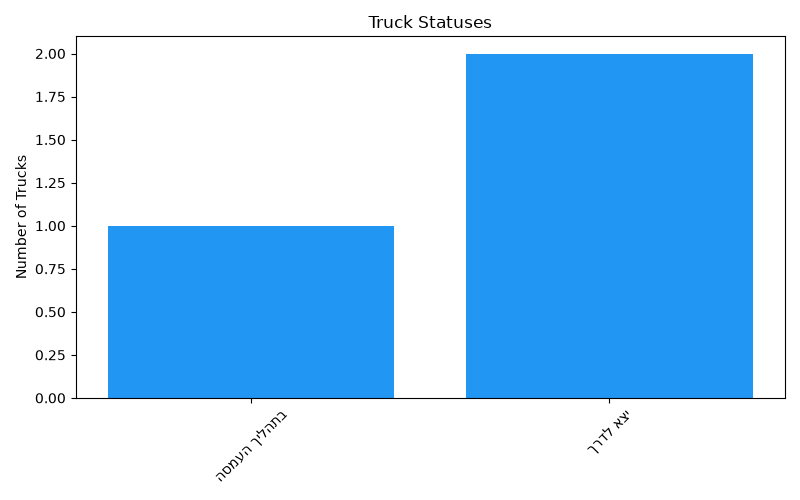
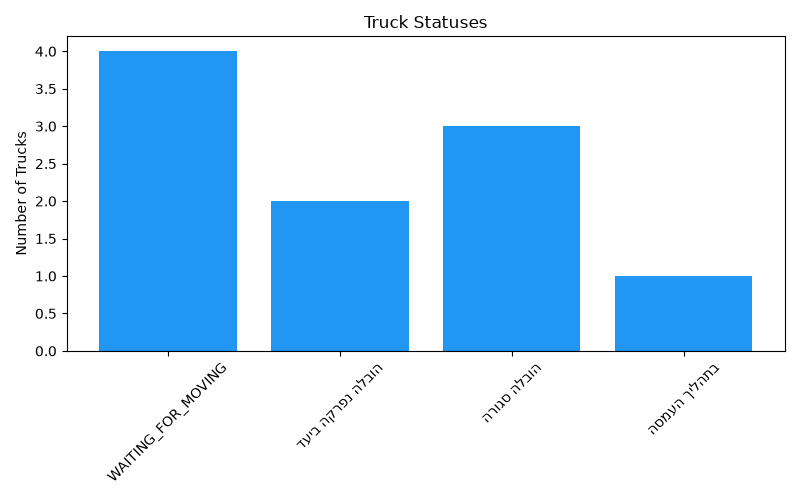
feat(agent): Make ChatRoute mobile-responsive, fix DB connection quote parsing, and update Groq fallback models

diff --git a/src/components/Chat.tsx b/src/components/Chat.tsx
@@ -14,8 +14,24 @@ export default function Chat() {
     const [isLoading, setIsLoading] = useState(false);
     const [selectedModel, setSelectedModel] = useState('logfare/auto');
     const [colabStatus, setColabStatus] = useState<'connected' | 'disconnected' | 'error'>('disconnected');
+    const [thinkingDots, setThinkingDots] = useState('');
     const messagesEndRef = useRef<HTMLDivElement>(null);
     const abortControllerRef = useRef<AbortController | null>(null);
+
+    // Animation for loading dots
+    useEffect(() => {
+        let interval: NodeJS.Timeout;
+        if (isLoading) {
+            setThinkingDots('');
+            interval = setInterval(() => {
+                setThinkingDots(prev => {
+                    if (prev === '...') return '';
+                    return prev + '.';
+                });
+            }, 500);
+        }
+        return () => clearInterval(interval);
+    }, [isLoading]);
 
     const scrollToBottom = () => {
         messagesEndRef.current?.scrollIntoView({ behavior: 'smooth' });
@@ -130,9 +146,9 @@ export default function Chat() {
                         </optgroup>
                         <optgroup label="Groq (Cloud - Fast but Rate Limited)">
                             <option value="llama-3.1-8b-instant">Llama 3.1 8B</option>
-                            <option value="llama-3.1-70b-versatile">Llama 3.1 70B</option>
+                            <option value="llama-3.3-70b-versatile">Llama 3.3 70B</option>
                             <option value="mixtral-8x7b-32768">Mixtral 8x7B</option>
-                            <option value="gemma-7b-it">Gemma 7B</option>
+                            <option value="gemma2-9b-it">Gemma 2 9B</option>
                         </optgroup>
                         <optgroup label="Local (Ollama - Free & Unlimited)">
                             <option value="local/llama3.1">Local: Llama 3.1 8B</option>
@@ -169,7 +185,9 @@ export default function Chat() {
                 {isLoading && (
                     <div className="message assistant loading">
                         <div className="message-content">
-                            <p>חושב...</p>
+                            <p style={{ direction: 'ltr', textAlign: 'right' }}>
+                                חושב{thinkingDots}
+                            </p>
                         </div>
                     </div>
                 )}

diff --git a/src/routes/ChatRoute.tsx b/src/routes/ChatRoute.tsx
@@ -1,0 +1,48 @@
+import { useNavigate } from "@tanstack/react-router";
+import Chat from "../components/Chat";
+
+export function ChatRoute() {
+  const navigate = useNavigate();
+
+  return (
+    <div style={{ 
+      height: "100dvh", 
+      maxWidth: "480px", 
+      margin: "0 auto",
+      display: "flex", 
+      flexDirection: "column", 
+      backgroundColor: "#f5f5f5",
+      boxShadow: "0 0 20px rgba(0,0,0,0.1)"
+    }}>
+      <header style={{ 
+        display: "flex", 
+        alignItems: "center", 
+        padding: "1rem", 
+        backgroundColor: "#1976d2", 
+        color: "white",
+        boxShadow: "0 2px 4px rgba(0,0,0,0.1)",
+        zIndex: 10
+      }}>
+        <button 
+          onClick={() => navigate({ to: "/management" })}
+          style={{ 
+            background: "none", 
+            border: "none", 
+            color: "white", 
+            fontSize: "1.2rem", 
+            cursor: "pointer",
+            display: "flex",
+            alignItems: "center",
+            gap: "0.5rem"
+          }}
+        >
+          <span>← חזור</span>
+        </button>
+        <h1 style={{ margin: "0 auto", fontSize: "1.2rem", fontWeight: "600", transform: "translateX(-20px)" }}>סוכן לוגיסטיקה חכם</h1>
+      </header>
+      <main style={{ flex: 1, overflow: "hidden", display: "flex" }}>
+        <Chat />
+      </main>
+    </div>
+  );
+}

diff --git a/src/routes/ManagementReportRoute.tsx b/src/routes/ManagementReportRoute.tsx
@@ -1,4 +1,5 @@
 import { useEffect, useMemo, useState } from "react";
+import { useNavigate } from "@tanstack/react-router";
 import {
   Bar,
   BarChart,
@@ -62,6 +63,7 @@ async function readError(response: Response) {
 }
 
 export function ManagementReportRoute() {
+  const navigate = useNavigate();
   const { api, currentUser, groups, rooms } = useRelocation();
   const [rows, setRows] = useState<GroupReportRow[]>([]);
   const [unitId, setUnitId] = useState("");
@@ -256,6 +258,32 @@ export function ManagementReportRoute() {
           </article>
         ))}
       </section>
+
+      {/* Floating Action Button for Chat Agent */}
+      <button
+        onClick={() => navigate({ to: '/chat' })}
+        style={{
+          position: "fixed",
+          bottom: "2rem",
+          left: "2rem",
+          width: "60px",
+          height: "60px",
+          borderRadius: "50%",
+          backgroundColor: "#1976d2",
+          color: "white",
+          border: "none",
+          boxShadow: "0 4px 10px rgba(0,0,0,0.3)",
+          fontSize: "24px",
+          cursor: "pointer",
+          display: "flex",
+          justifyContent: "center",
+          alignItems: "center",
+          zIndex: 1000
+        }}
+        aria-label="Open AI Agent"
+      >
+        💬
+      </button>
     </MobileShell>
   );
 }

diff --git a/src/router.tsx b/src/router.tsx
@@ -10,6 +10,7 @@ import { PackingRoute } from "./routes/PackingRoute";
 import { ProcessesRoute } from "./routes/ProcessesRoute";
 import { ReceivingRoute } from "./routes/ReceivingRoute";
 import { TransportRoute } from "./routes/TransportRoute";
+import { ChatRoute } from "./routes/ChatRoute";
 
 const rootRoute = createRootRoute({
   component: () => <Outlet />,
@@ -57,6 +58,12 @@ const managementRoute = createRoute({
   component: ManagementReportRoute,
 });
 
+const chatRoute = createRoute({
+  getParentRoute: () => rootRoute,
+  path: "/chat",
+  component: ChatRoute,
+});
+
 const routeTree = rootRoute.addChildren([
   dashboardRoute,
   processesRoute,
@@ -65,6 +72,7 @@ const routeTree = rootRoute.addChildren([
   receivingRoute,
   distributionRoute,
   managementRoute,
+  chatRoute,
 ]);
 
 export const router = createRouter({ routeTree });

diff --git a/src/App.tsx b/src/App.tsx
@@ -3,7 +3,6 @@ import { RelocationProvider } from "./state/relocation";
 import { router } from "./router";
 import { LoginRoute } from "./routes/LoginRoute";
 import { useRelocation } from "./state/relocation";
-import Chat from "./components/Chat";
 
 function AuthGate() {
   const { currentUser, loading } = useRelocation();
@@ -19,12 +18,6 @@ function AuthGate() {
   return (
     <>
       <RouterProvider router={router} />
-      
-      {/* Injected Chat Agent for testing after login */}
-      <section className="chat-section" style={{ margin: "2rem", borderTop: "2px solid #ccc", paddingTop: "2rem" }}>
-        <h2 style={{ textAlign: "center", marginBottom: "1rem" }}>Logistics Agent</h2>
-        <Chat />
-      </section>
     </>
   );
 }

diff --git a/src/components/Chat.css b/src/components/Chat.css
@@ -1,13 +1,10 @@
 .chat-container {
     display: flex;
     flex-direction: column;
-    height: 500px;
+    height: 100%;
     width: 100%;
-    max-width: 800px;
-    margin: 0 auto;
-    border: 1px solid #ccc;
-    border-radius: 8px;
-    background-color: #f9f9f9;
+    margin: 0;
+    background-color: #f5f5f5;
     overflow: hidden;
 }
 
@@ -76,6 +73,7 @@
     max-width: 100%;
     border-radius: 8px;
     border: 1px solid #ddd;
+    object-fit: contain;
 }
 
 .loading .message-content {

diff --git a/agent/check_db.py b/agent/check_db.py
@@ -1,0 +1,24 @@
+import os
+import psycopg2
+from dotenv import load_dotenv
+
+load_dotenv()
+
+db_url = os.environ.get("SUPABASE_DB_URL")
+if not db_url:
+    print("Error: SUPABASE_DB_URL not found")
+    exit(1)
+
+# Remove quotes if they exist
+db_url = db_url.strip('"').strip("'")
+print(f"Connecting to: {db_url.split('@')[-1]}")
+
+try:
+    conn = psycopg2.connect(db_url)
+    cursor = conn.cursor()
+    cursor.execute("SELECT 1;")
+    result = cursor.fetchone()
+    print("Success! Database connection works.")
+    conn.close()
+except Exception as e:
+    print(f"Connection failed: {e}")

diff --git a/agent/tools.py b/agent/tools.py
@@ -14,6 +14,9 @@ def _get_connection():
     if not db_url:
         raise ValueError("SUPABASE_DB_URL environment variable is not set. Please set it in agent/.env")
     
+    # Strip any accidental quotes from the .env file that might break psycopg2
+    db_url = db_url.strip('"').strip("'")
+    
     # Supabase connection string usually starts with postgresql:// or postgres://
     conn = psycopg2.connect(db_url)
     return conn

diff --git a/agent/agent.py b/agent/agent.py
@@ -199,8 +199,8 @@ DEFAULT_MODEL = "llama-3.1-8b-instant"
 
 FALLBACK_MODELS = [
     "llama-3.1-8b-instant",
-    "llama-3.1-70b-versatile",
-    "llama3-8b-8192"
+    "llama-3.3-70b-versatile",
+    "mixtral-8x7b-32768"
 ]
 
 def run_conversation(user_prompt: str, messages: list = None, model: str = None):
